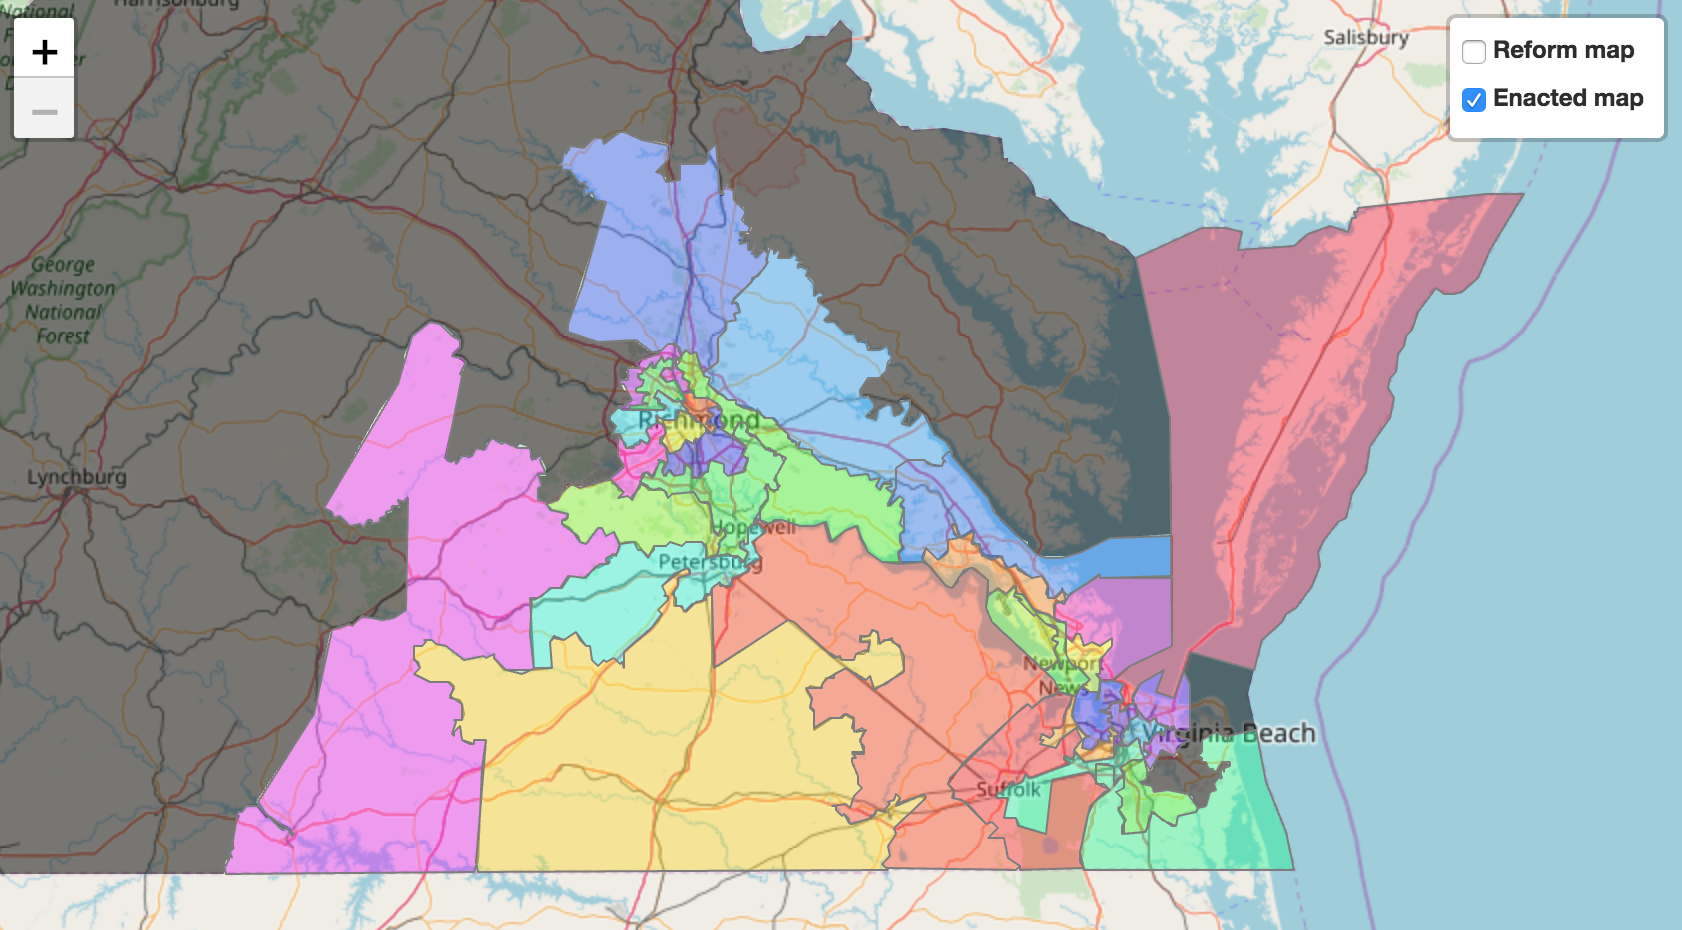
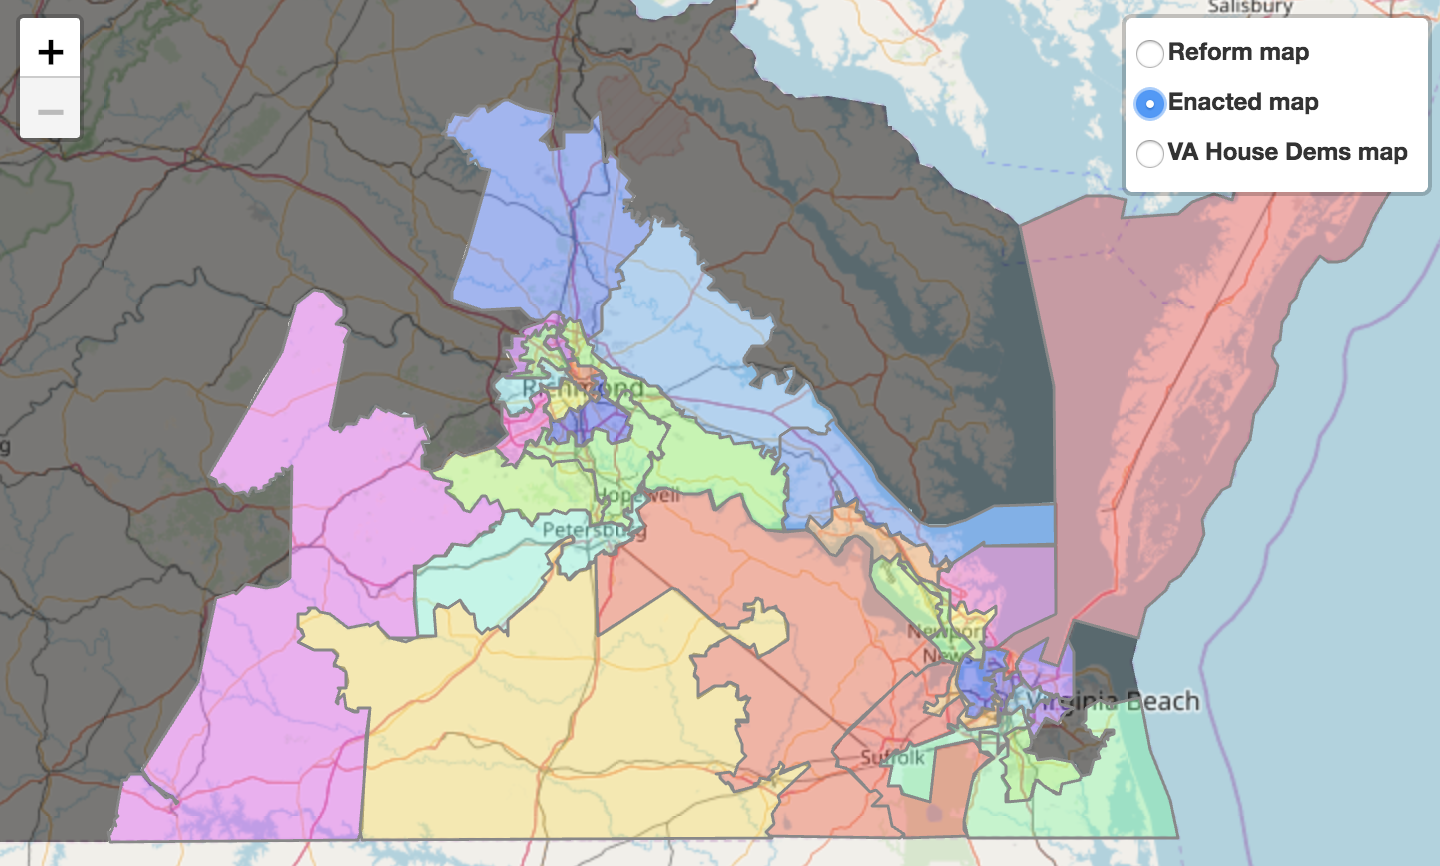
update preview images

diff --git a/Maps/House Dems map/README.md b/Maps/House Dems map/README.md
@@ -1,1 +1,4 @@
-This folder contains the shapefile for the map proposed by the [VA House Democrats](http://redistricting.dls.virginia.gov/2010/RedistrictingPlans.aspx#42) on 8/29/2018.
+This folder contains the shapefile for the map proposed by the [VA House Democrats](http://redistricting.dls.virginia.gov/2010/RedistrictingPlans.aspx#42) on 8/29/2018. The map, limited to the 33 districts affected by the Bethune-Hill case, is pictured below
+
+[![Enacted map](housedems_preview.png)](https://rawgit.com/PrincetonUniversity/VA-gerrymander/master/Maps/Interactive/map_comparison.html)
+<p align="center">Click to explore the map interactively.</p>
